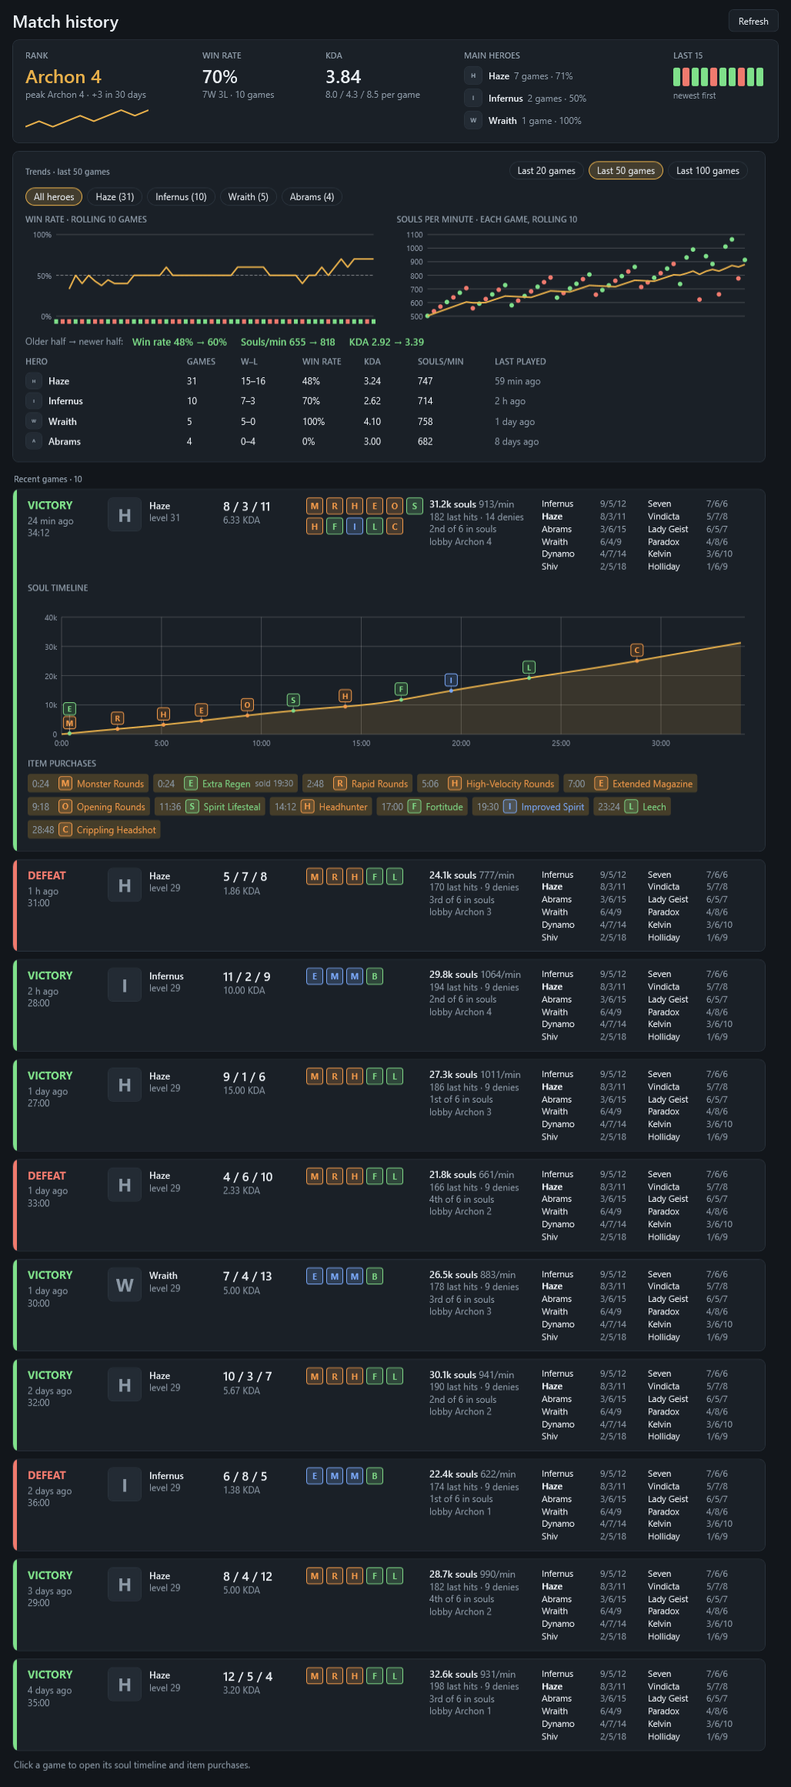
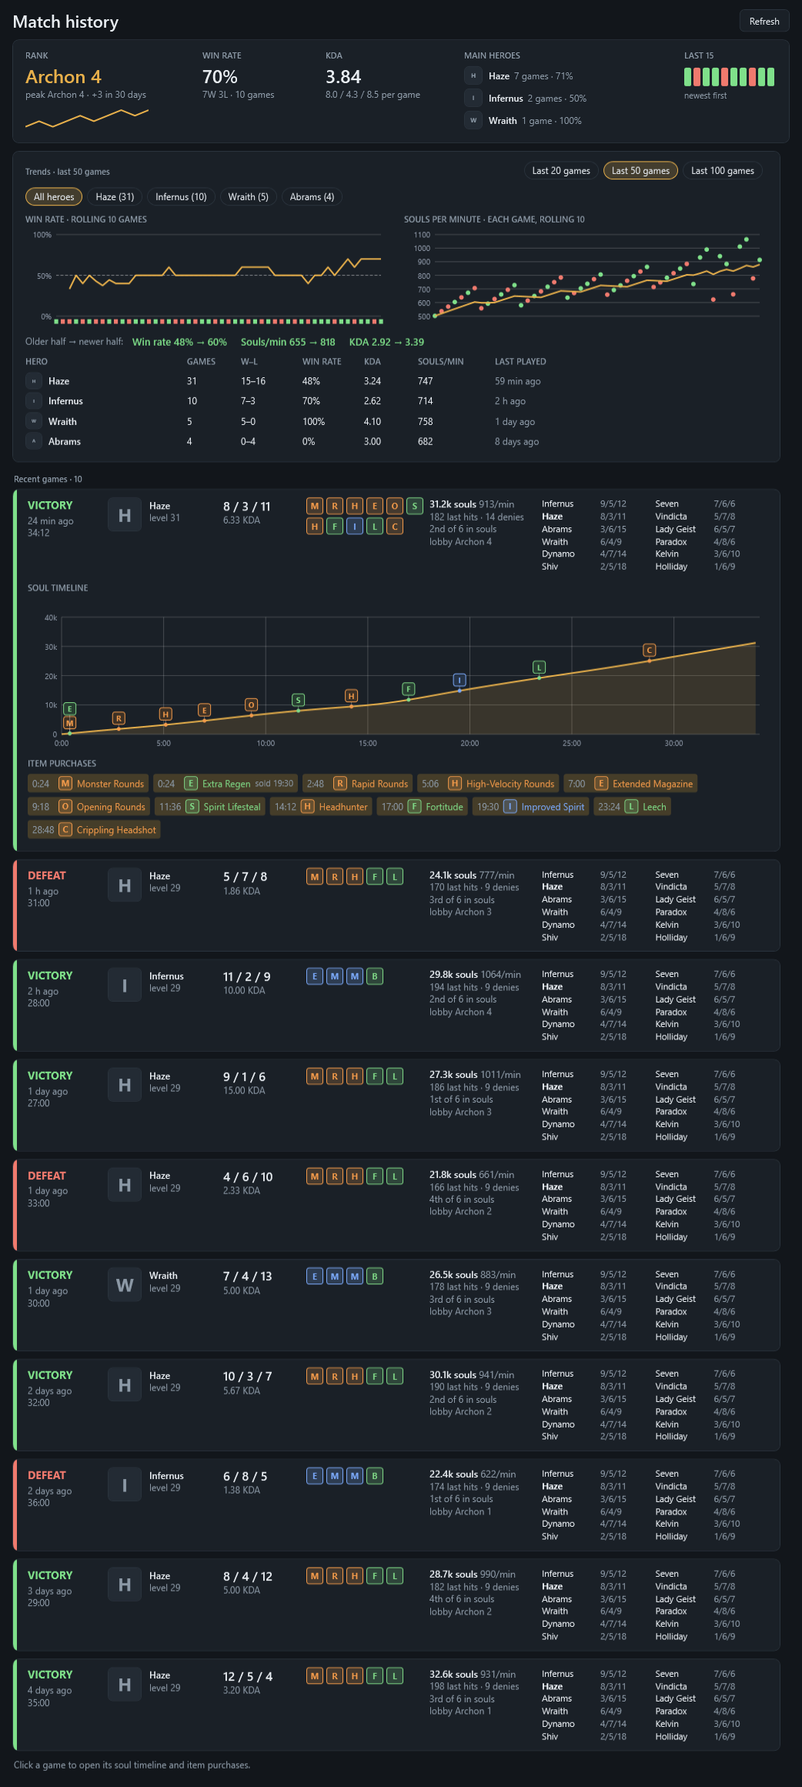
Dark title bar and slim themed scroll bars (#38)
* Dark title bar and slim themed scroll bars

The main window and the match history drew Windows' white caption and
grey scroll bars around the dark theme. Both now use a ScoutWindow
style:

- WindowChrome title bar: app icon, "Deadlock" + gold "Scout" and the
  rest of the title muted, a gold rule fading out under it, flat
  minimise/maximise/close buttons (close turns red). Dims when inactive.
- Snapping, resizing, double-click to maximise and the system menu keep
  working; WindowFrame wires the caption commands, asks DWM for a dark
  frame, round corners and a line-coloured border (Windows 11), and
  insets the frame while maximised.
- Implicit ScrollBar style: no arrows, a slim rounded thumb that widens
  and turns gold under the mouse.

New screenshot window-frame.png shows the whole main window.

Claude-Session: https://claude.ai/code/session_01LSDkBn23Na5vMSKWLtGadZ

* Update app screenshots

---------

diff --git a/src/DeadlockScout.App/Themes/Theme.xaml b/src/DeadlockScout.App/Themes/Theme.xaml
@@ -109,6 +109,247 @@
     </Style>
 
     <!--
+      Scroll bars: no arrows, a slim rounded thumb on a clear track that widens and warms to gold under the mouse.
+      Implicit, so every ScrollViewer in the app picks it up.
+    -->
+    <SolidColorBrush x:Key="ThumbIdle" Color="#3A4652"/>
+    <Style x:Key="ScrollPage" TargetType="RepeatButton">
+        <Setter Property="Focusable" Value="False"/>
+        <Setter Property="IsTabStop" Value="False"/>
+        <Setter Property="Template">
+            <Setter.Value>
+                <ControlTemplate TargetType="RepeatButton"><Border Background="Transparent"/></ControlTemplate>
+            </Setter.Value>
+        </Setter>
+    </Style>
+    <Style x:Key="ScrollThumb" TargetType="Thumb">
+        <Setter Property="Focusable" Value="False"/>
+        <Setter Property="IsTabStop" Value="False"/>
+        <Setter Property="Template">
+            <Setter.Value>
+                <ControlTemplate TargetType="Thumb">
+                    <Border x:Name="Grip" Background="{StaticResource ThumbIdle}" CornerRadius="3"/>
+                    <ControlTemplate.Triggers>
+                        <DataTrigger Binding="{Binding IsMouseOver, RelativeSource={RelativeSource AncestorType=ScrollBar}}" Value="True">
+                            <Setter TargetName="Grip" Property="Background" Value="#6B5A3A"/>
+                        </DataTrigger>
+                        <Trigger Property="IsMouseOver" Value="True">
+                            <Setter TargetName="Grip" Property="Background" Value="{StaticResource Gold}"/>
+                        </Trigger>
+                        <Trigger Property="IsDragging" Value="True">
+                            <Setter TargetName="Grip" Property="Background" Value="{StaticResource Gold}"/>
+                        </Trigger>
+                    </ControlTemplate.Triggers>
+                </ControlTemplate>
+            </Setter.Value>
+        </Setter>
+    </Style>
+    <Style TargetType="ScrollBar">
+        <Setter Property="Background" Value="Transparent"/>
+        <Setter Property="Width" Value="12"/>
+        <Setter Property="MinWidth" Value="12"/>
+        <Setter Property="Template">
+            <Setter.Value>
+                <ControlTemplate TargetType="ScrollBar">
+                    <Border Background="{TemplateBinding Background}" CornerRadius="5" Margin="2,4">
+                        <Track x:Name="PART_Track" IsDirectionReversed="True">
+                            <Track.DecreaseRepeatButton>
+                                <RepeatButton Style="{StaticResource ScrollPage}" Command="ScrollBar.PageUpCommand"/>
+                            </Track.DecreaseRepeatButton>
+                            <Track.IncreaseRepeatButton>
+                                <RepeatButton Style="{StaticResource ScrollPage}" Command="ScrollBar.PageDownCommand"/>
+                            </Track.IncreaseRepeatButton>
+                            <Track.Thumb>
+                                <Thumb x:Name="Thumb" Style="{StaticResource ScrollThumb}" Width="4" MinHeight="28" HorizontalAlignment="Center"/>
+                            </Track.Thumb>
+                        </Track>
+                    </Border>
+                    <ControlTemplate.Triggers>
+                        <Trigger Property="IsMouseOver" Value="True">
+                            <Setter Property="Background" Value="#14FFFFFF"/>
+                            <Setter TargetName="Thumb" Property="Width" Value="7"/>
+                        </Trigger>
+                    </ControlTemplate.Triggers>
+                </ControlTemplate>
+            </Setter.Value>
+        </Setter>
+        <Style.Triggers>
+            <Trigger Property="Orientation" Value="Horizontal">
+                <Setter Property="Width" Value="Auto"/>
+                <Setter Property="MinWidth" Value="0"/>
+                <Setter Property="Height" Value="12"/>
+                <Setter Property="MinHeight" Value="12"/>
+                <Setter Property="Template">
+                    <Setter.Value>
+                        <ControlTemplate TargetType="ScrollBar">
+                            <Border Background="{TemplateBinding Background}" CornerRadius="5" Margin="4,2">
+                                <Track x:Name="PART_Track">
+                                    <Track.DecreaseRepeatButton>
+                                        <RepeatButton Style="{StaticResource ScrollPage}" Command="ScrollBar.PageLeftCommand"/>
+                                    </Track.DecreaseRepeatButton>
+                                    <Track.IncreaseRepeatButton>
+                                        <RepeatButton Style="{StaticResource ScrollPage}" Command="ScrollBar.PageRightCommand"/>
+                                    </Track.IncreaseRepeatButton>
+                                    <Track.Thumb>
+                                        <Thumb x:Name="Thumb" Style="{StaticResource ScrollThumb}" Height="4" MinWidth="28" VerticalAlignment="Center"/>
+                                    </Track.Thumb>
+                                </Track>
+                            </Border>
+                            <ControlTemplate.Triggers>
+                                <Trigger Property="IsMouseOver" Value="True">
+                                    <Setter Property="Background" Value="#14FFFFFF"/>
+                                    <Setter TargetName="Thumb" Property="Height" Value="7"/>
+                                </Trigger>
+                            </ControlTemplate.Triggers>
+                        </ControlTemplate>
+                    </Setter.Value>
+                </Setter>
+            </Trigger>
+        </Style.Triggers>
+    </Style>
+
+    <!--
+      The app's own window frame (main window, match history): WindowChrome takes over the title bar, so Windows' white
+      caption is gone but snapping, resizing, double-click to maximise and the system menu still work. A dark bar with the
+      icon, "Deadlock" + gold "Scout" and the rest of the title muted, a gold rule fading out under it, and flat caption
+      buttons (close turns red). Interop/WindowFrame wires the buttons and asks Windows for a dark border.
+    -->
+    <Style x:Key="CaptionButton" TargetType="Button">
+        <Setter Property="Width" Value="46"/>
+        <Setter Property="Foreground" Value="{StaticResource Muted}"/>
+        <Setter Property="FontFamily" Value="Segoe MDL2 Assets"/>
+        <Setter Property="FontSize" Value="10"/>
+        <Setter Property="Focusable" Value="False"/>
+        <Setter Property="IsTabStop" Value="False"/>
+        <Setter Property="WindowChrome.IsHitTestVisibleInChrome" Value="True"/>
+        <Setter Property="Template">
+            <Setter.Value>
+                <ControlTemplate TargetType="Button">
+                    <Border x:Name="Bd" Background="Transparent">
+                        <TextBlock x:Name="Glyph" Text="{TemplateBinding Content}" Foreground="{TemplateBinding Foreground}"
+                                   HorizontalAlignment="Center" VerticalAlignment="Center"/>
+                    </Border>
+                    <ControlTemplate.Triggers>
+                        <Trigger Property="IsMouseOver" Value="True">
+                            <Setter TargetName="Bd" Property="Background" Value="{StaticResource SurfaceHover}"/>
+                            <Setter TargetName="Glyph" Property="Foreground" Value="{StaticResource Gold}"/>
+                        </Trigger>
+                        <Trigger Property="IsPressed" Value="True">
+                            <Setter TargetName="Bd" Property="Background" Value="{StaticResource GoldSoft}"/>
+                        </Trigger>
+                    </ControlTemplate.Triggers>
+                </ControlTemplate>
+            </Setter.Value>
+        </Setter>
+    </Style>
+    <Style x:Key="CloseCaptionButton" TargetType="Button" BasedOn="{StaticResource CaptionButton}">
+        <Setter Property="Template">
+            <Setter.Value>
+                <ControlTemplate TargetType="Button">
+                    <Border x:Name="Bd" Background="Transparent">
+                        <TextBlock x:Name="Glyph" Text="{TemplateBinding Content}" Foreground="{TemplateBinding Foreground}"
+                                   HorizontalAlignment="Center" VerticalAlignment="Center"/>
+                    </Border>
+                    <ControlTemplate.Triggers>
+                        <Trigger Property="IsMouseOver" Value="True">
+                            <Setter TargetName="Bd" Property="Background" Value="#C42B1C"/>
+                            <Setter TargetName="Glyph" Property="Foreground" Value="White"/>
+                        </Trigger>
+                        <Trigger Property="IsPressed" Value="True">
+                            <Setter TargetName="Bd" Property="Background" Value="#9E2316"/>
+                        </Trigger>
+                    </ControlTemplate.Triggers>
+                </ControlTemplate>
+            </Setter.Value>
+        </Setter>
+    </Style>
+    <LinearGradientBrush x:Key="TitleBarBg" StartPoint="0,0" EndPoint="0,1">
+        <GradientStop Color="#1B222A" Offset="0"/>
+        <GradientStop Color="#141A20" Offset="1"/>
+    </LinearGradientBrush>
+    <LinearGradientBrush x:Key="TitleRule" StartPoint="0,0" EndPoint="1,0">
+        <GradientStop Color="#00E8B04B" Offset="0"/>
+        <GradientStop Color="#C0E8B04B" Offset="0.08"/>
+        <GradientStop Color="#40E8B04B" Offset="0.45"/>
+        <GradientStop Color="#00E8B04B" Offset="1"/>
+    </LinearGradientBrush>
+    <Style x:Key="ScoutWindow" TargetType="Window">
+        <Setter Property="Background" Value="{StaticResource Bg}"/>
+        <Setter Property="Foreground" Value="{StaticResource Fg}"/>
+        <Setter Property="FontFamily" Value="Segoe UI"/>
+        <Setter Property="WindowChrome.WindowChrome">
+            <Setter.Value>
+                <!-- A sliver of glass at the bottom keeps the system drop shadow; the opaque frame covers it. -->
+                <WindowChrome CaptionHeight="38" ResizeBorderThickness="6" GlassFrameThickness="0,0,0,1" CornerRadius="0" UseAeroCaptionButtons="False"/>
+            </Setter.Value>
+        </Setter>
+        <Setter Property="Template">
+            <Setter.Value>
+                <ControlTemplate TargetType="Window">
+                    <Border x:Name="Frame" Background="{TemplateBinding Background}" BorderBrush="{StaticResource Line}" BorderThickness="1">
+                        <Grid>
+                            <Grid.RowDefinitions>
+                                <RowDefinition Height="38"/>
+                                <RowDefinition Height="*"/>
+                            </Grid.RowDefinitions>
+                            <Border Background="{StaticResource TitleBarBg}">
+                                <Grid>
+                                    <Grid.ColumnDefinitions>
+                                        <ColumnDefinition Width="Auto"/>
+                                        <ColumnDefinition Width="*"/>
+                                        <ColumnDefinition Width="Auto"/>
+                                    </Grid.ColumnDefinitions>
+                                    <Image Source="{TemplateBinding Icon}" Width="18" Height="18" Margin="12,0,10,0" VerticalAlignment="Center"
+                                           RenderOptions.BitmapScalingMode="HighQuality"/>
+                                    <TextBlock x:Name="TitleText" Grid.Column="1" VerticalAlignment="Center" FontSize="13" TextTrimming="CharacterEllipsis">
+                                        <Run Text="Deadlock" FontWeight="SemiBold" Foreground="{StaticResource Fg}"/><Run
+                                             Text="Scout" FontWeight="SemiBold" Foreground="{StaticResource Gold}"/><Run
+                                             Text="{Binding Title, RelativeSource={RelativeSource TemplatedParent}, Mode=OneWay, Converter={x:Static vm:Converters.TitleSuffix}}"
+                                             Foreground="{StaticResource Muted}"/>
+                                    </TextBlock>
+                                    <StackPanel Grid.Column="2" Orientation="Horizontal">
+                                        <Button x:Name="MinButton" Style="{StaticResource CaptionButton}" Content="&#xE921;" ToolTip="Minimise"
+                                                Command="{x:Static SystemCommands.MinimizeWindowCommand}"/>
+                                        <Button x:Name="MaxButton" Style="{StaticResource CaptionButton}" Content="&#xE922;" ToolTip="Maximise"
+                                                Command="{x:Static SystemCommands.MaximizeWindowCommand}"/>
+                                        <Button x:Name="RestoreButton" Style="{StaticResource CaptionButton}" Content="&#xE923;" ToolTip="Restore"
+                                                Command="{x:Static SystemCommands.RestoreWindowCommand}" Visibility="Collapsed"/>
+                                        <Button Style="{StaticResource CloseCaptionButton}" Content="&#xE8BB;" ToolTip="Close"
+                                                Command="{x:Static SystemCommands.CloseWindowCommand}"/>
+                                    </StackPanel>
+                                </Grid>
+                            </Border>
+                            <Rectangle x:Name="Rule" Height="1" VerticalAlignment="Bottom" Fill="{StaticResource TitleRule}"/>
+                            <AdornerDecorator Grid.Row="1">
+                                <ContentPresenter/>
+                            </AdornerDecorator>
+                        </Grid>
+                    </Border>
+                    <ControlTemplate.Triggers>
+                        <Trigger Property="IsActive" Value="False">
+                            <Setter TargetName="TitleText" Property="Opacity" Value="0.55"/>
+                            <Setter TargetName="Rule" Property="Opacity" Value="0.35"/>
+                        </Trigger>
+                        <Trigger Property="WindowState" Value="Maximized">
+                            <!-- WindowFrame pulls the frame back in from the screen edge a maximised chrome window hangs over. -->
+                            <Setter TargetName="Frame" Property="BorderThickness" Value="0"/>
+                            <Setter TargetName="MaxButton" Property="Visibility" Value="Collapsed"/>
+                            <Setter TargetName="RestoreButton" Property="Visibility" Value="Visible"/>
+                        </Trigger>
+                        <Trigger Property="ResizeMode" Value="CanMinimize">
+                            <Setter TargetName="MaxButton" Property="Visibility" Value="Collapsed"/>
+                        </Trigger>
+                        <Trigger Property="ResizeMode" Value="NoResize">
+                            <Setter TargetName="MinButton" Property="Visibility" Value="Collapsed"/>
+                            <Setter TargetName="MaxButton" Property="Visibility" Value="Collapsed"/>
+                        </Trigger>
+                    </ControlTemplate.Triggers>
+                </ControlTemplate>
+            </Setter.Value>
+        </Setter>
+    </Style>
+
+    <!--
       The power-spike chip on an enemy pace row (overlay and main window): an EnemyPaceRowViewModel's latest spike item,
       coloured by kind (red ultimate, orange weapon, blue spirit, green vitality); filled and "just got ..." for half a
       minute after the purchase, then a quiet chip. The item's icon, or its initial in a small square until the icon

diff --git a/src/DeadlockScout.App/MainWindow.xaml b/src/DeadlockScout.App/MainWindow.xaml
@@ -3,7 +3,7 @@
         xmlns:x="http://schemas.microsoft.com/winfx/2006/xaml"
         xmlns:vm="clr-namespace:DeadlockScout.App.ViewModels"
         Title="DeadlockScout" Icon="pack://application:,,,/Assets/app.ico" Width="900" Height="680"
-        Background="{StaticResource Bg}" Foreground="{StaticResource Fg}" FontFamily="Segoe UI">
+        Style="{StaticResource ScoutWindow}">
     <!-- Colours, cards, captions, chips and the flat buttons come from Themes/Theme.xaml. -->
     <Window.Resources>
         <Style TargetType="TextBlock">

diff --git a/src/DeadlockScout.App/History/MatchHistoryWindow.xaml b/src/DeadlockScout.App/History/MatchHistoryWindow.xaml
@@ -4,7 +4,7 @@
         xmlns:vm="clr-namespace:DeadlockScout.App.ViewModels"
         xmlns:c="clr-namespace:DeadlockScout.App.Controls"
         Title="DeadlockScout · Match history" Icon="pack://application:,,,/Assets/app.ico" Width="1080" Height="880"
-        Background="{StaticResource Bg}" Foreground="{StaticResource Fg}" FontFamily="Segoe UI">
+        Style="{StaticResource ScoutWindow}">
     <!-- Colours, cards, captions and buttons come from Themes/Theme.xaml. -->
     <Window.Resources>
         <Style TargetType="TextBlock">

diff --git a/src/DeadlockScout.App/Interop/WindowFrame.cs b/src/DeadlockScout.App/Interop/WindowFrame.cs
@@ -1,0 +1,59 @@
+using System.Windows;
+using System.Windows.Input;
+using System.Windows.Interop;
+using System.Windows.Shell;
+
+namespace DeadlockScout.App.Interop;
+
+/// <summary>
+/// The other half of the ScoutWindow style (Themes/Theme.xaml): its caption buttons send the SystemCommands, which a
+/// window does not handle by itself, and once a window has a handle Windows is asked for a dark frame (Windows 10 2004+)
+/// with round corners and a border in the theme's line colour (Windows 11). Older builds refuse the attributes and keep
+/// the square frame; nothing depends on them. A maximised chrome window hangs over the screen edge by its sizing frame,
+/// so the frame is inset by that much while maximised.
+/// </summary>
+public static class WindowFrame
+{
+    private const int LineColor = 0x3D332A; // #2A333D as COLORREF (0x00BBGGRR)
+
+    public static void Register()
+    {
+        Bind(SystemCommands.MinimizeWindowCommand, SystemCommands.MinimizeWindow);
+        Bind(SystemCommands.MaximizeWindowCommand, SystemCommands.MaximizeWindow);
+        Bind(SystemCommands.RestoreWindowCommand, SystemCommands.RestoreWindow);
+        Bind(SystemCommands.CloseWindowCommand, SystemCommands.CloseWindow);
+        EventManager.RegisterClassHandler(typeof(Window), FrameworkElement.LoadedEvent, new RoutedEventHandler(OnLoaded));
+    }
+
+    private static void Bind(RoutedCommand command, Action<Window> action)
+        => CommandManager.RegisterClassCommandBinding(typeof(Window), new CommandBinding(command, (s, _) => action((Window)s)));
+
+    private static void OnLoaded(object sender, RoutedEventArgs e)
+    {
+        if (sender is not Window w || WindowChrome.GetWindowChrome(w) is null) return;
+        var hwnd = new WindowInteropHelper(w).Handle;
+        if (hwnd == IntPtr.Zero) return;
+        Set(hwnd, NativeMethods.DWMWA_USE_IMMERSIVE_DARK_MODE, 1);
+        Set(hwnd, NativeMethods.DWMWA_WINDOW_CORNER_PREFERENCE, NativeMethods.DWMWCP_ROUND);
+        Set(hwnd, NativeMethods.DWMWA_BORDER_COLOR, LineColor);
+        w.StateChanged -= Inset;
+        w.StateChanged += Inset;
+        Inset(w, EventArgs.Empty);
+    }
+
+    private static void Inset(object? sender, EventArgs e)
+    {
+        if (sender is not Window w || w.Template?.FindName("Frame", w) is not FrameworkElement frame) return;
+        if (w.WindowState != WindowState.Maximized) { frame.Margin = default; return; }
+        var dpi = System.Windows.Media.VisualTreeHelper.GetDpi(w);
+        int padded = NativeMethods.GetSystemMetrics(NativeMethods.SM_CXPADDEDBORDER);
+        frame.Margin = new Thickness(
+            (NativeMethods.GetSystemMetrics(NativeMethods.SM_CXSIZEFRAME) + padded) / dpi.DpiScaleX,
+            (NativeMethods.GetSystemMetrics(NativeMethods.SM_CYSIZEFRAME) + padded) / dpi.DpiScaleY,
+            (NativeMethods.GetSystemMetrics(NativeMethods.SM_CXSIZEFRAME) + padded) / dpi.DpiScaleX,
+            (NativeMethods.GetSystemMetrics(NativeMethods.SM_CYSIZEFRAME) + padded) / dpi.DpiScaleY);
+    }
+
+    private static void Set(IntPtr hwnd, int attribute, int value)
+        => _ = NativeMethods.DwmSetWindowAttribute(hwnd, attribute, ref value, sizeof(int));
+}

diff --git a/src/DeadlockScout.App/ViewModels/Converters.cs b/src/DeadlockScout.App/ViewModels/Converters.cs
@@ -16,6 +16,8 @@ public static class Converters
     public static readonly IValueConverter VisibleIfNotNull = new Lambda(v => v is not null ? Visibility.Visible : Visibility.Collapsed);
     public static readonly IValueConverter CollapsedIfNotNull = new Lambda(v => v is not null ? Visibility.Collapsed : Visibility.Visible);
     public static readonly IValueConverter VisibleIfPositive = new Lambda(v => v is int n && n > 0 ? Visibility.Visible : Visibility.Collapsed);
+    /// <summary>"DeadlockScout · Match history" → " · Match history": the title bar draws the name itself, in two colours.</summary>
+    public static readonly IValueConverter TitleSuffix = new Lambda(v => v is string t && t.StartsWith("DeadlockScout", StringComparison.Ordinal) ? t["DeadlockScout".Length..] : $" · {v}");
     public static readonly IValueConverter BoldIfTrue = new Lambda(v => v is true ? FontWeights.Bold : FontWeights.Normal);
 
     private static readonly Brush Ahead = Freeze(new SolidColorBrush(Color.FromRgb(0x7F, 0xE0, 0x8A)));

diff --git a/src/DeadlockScout.App/Interop/NativeMethods.cs b/src/DeadlockScout.App/Interop/NativeMethods.cs
@@ -15,6 +15,14 @@ public static partial class NativeMethods
     public const int WM_HOTKEY = 0x0312;
     public const uint MOD_ALT = 0x1, MOD_CONTROL = 0x2, MOD_SHIFT = 0x4, MOD_WIN = 0x8, MOD_NOREPEAT = 0x4000;
 
+    public const int DWMWA_USE_IMMERSIVE_DARK_MODE = 20, DWMWA_WINDOW_CORNER_PREFERENCE = 33, DWMWA_BORDER_COLOR = 34;
+    public const int DWMWCP_ROUND = 2;
+
+    public const int SM_CXSIZEFRAME = 32, SM_CYSIZEFRAME = 33, SM_CXPADDEDBORDER = 92;
+
+    [LibraryImport("user32.dll")] public static partial int GetSystemMetrics(int index);
+    [LibraryImport("dwmapi.dll")] public static partial int DwmSetWindowAttribute(IntPtr hWnd, int attribute, ref int value, int size);
+
     [StructLayout(LayoutKind.Sequential)]
     public struct RECT { public int Left, Top, Right, Bottom; public int Width => Right - Left; public int Height => Bottom - Top; }
 

diff --git a/src/DeadlockScout.App/Program.cs b/src/DeadlockScout.App/Program.cs
@@ -156,6 +156,9 @@ public static class Program
                 main.Left = 0; main.Top = 0;
                 main.Show();
                 await Dispatcher.Yield(DispatcherPriority.ApplicationIdle);
+                // The whole window as it shows on screen: the title bar and the scroll bar. Before the stacked shot, which lays
+                // the body out at its full height.
+                ScreenshotRenderer.Render((FrameworkElement)VisualTreeHelper.GetChild(main, 0), main.Background, Path.Combine(folder, "window-frame.png"));
                 var content = (FrameworkElement)main.Content;
                 ScreenshotRenderer.RenderStacked(new[] { main.Header, main.Body }, main.Background, Path.Combine(folder, "main-window.png"), content.Margin);
 

diff --git a/src/DeadlockScout.App/App.xaml.cs b/src/DeadlockScout.App/App.xaml.cs
@@ -2,4 +2,5 @@ namespace DeadlockScout.App;
 
 public partial class App : System.Windows.Application
 {
+    public App() => Interop.WindowFrame.Register();
 }

diff --git a/README.md b/README.md
@@ -33,6 +33,10 @@ The match history with demo games: the summary row, the trends over 50 games, th
 
 ![The match history window with demo games and an opened soul timeline](docs/screenshots/match-history.png)
 
+The app's own window frame: a dark title bar with the gold-ruled DeadlockScout name and flat caption buttons (close turns red), and slim scroll bars that widen and turn gold under the mouse, in place of Windows' white caption and grey bars. Snapping, resizing and double-click to maximise still work; on Windows 11 the corners stay round.
+
+![The main window as it shows on screen, with its dark title bar and slim scroll bar](docs/screenshots/window-frame.png)
+
 The main window, with detection status, the Direct/Hosted live feed switch and the same demo lobby, spike chips included.
 
 ![The DeadlockScout main window with a demo lobby](docs/screenshots/main-window.png)
